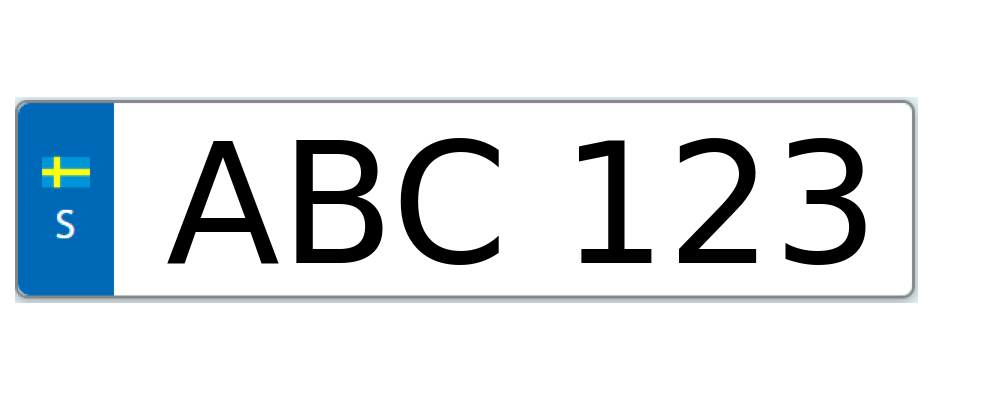
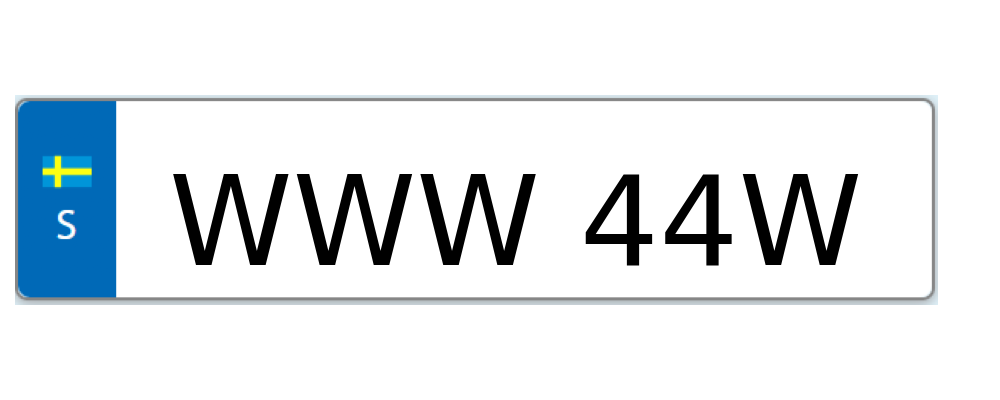
create images working

diff --git a/create_image.py b/create_image.py
@@ -1,7 +1,6 @@
 import matplotlib.pyplot as plt
 
-def create_images(reg_nr, save_path):
-    """Takes a first name, surname and a filename as arguments. Adds first name surname to the image and saves it as the given filename"""
+def create_image(reg_nr, save_path):
     # to do: check if includes the space and the rest is all alphanumerical
     # do this with try / except instead
     if len(reg_nr) == 7:
@@ -9,7 +8,7 @@ def create_images(reg_nr, save_path):
         ax = plt.gca()
         plt.axis('off')
         im = plt.imread("empty_sign.png")
-        plt.text(100, 110, reg_nr, fontsize=120)
+        plt.text(100, 110, reg_nr, fontsize=90)
 
         plt.imshow(im)
         plt.tight_layout()
@@ -37,4 +36,4 @@ def create_images(reg_nr, save_path):
     #     # plt.showw()
 
 if __name__ == "__main__":
-    create_images('ABC 123', 'test_plate.png')
+    create_image('AWW 44W', 'test_plate2.png')

diff --git a/create_multiple_images.py b/create_multiple_images.py
@@ -1,4 +1,20 @@
-from create_image import *
+from create_image import create_image
+from create_folder import create_folders 
+from generate_reg_no import generate_reg_nr
+from config import *
 
 
-def 
+def create_multiple_images(amount):
+    create_folders(FOLDER_PATH)
+    
+    for i in range(amount):
+        file_name = str(i + 1) + '.png'
+        current_plate_number = generate_reg_nr()
+        first_letter = current_plate_number[0]
+        full_path = FOLDER_PATH + first_letter + '\\' + file_name
+        create_image(current_plate_number, full_path)
+
+
+
+if __name__=='__main__':
+    create_multiple_images(5)

diff --git a/config.py b/config.py
@@ -1,1 +1,1 @@
-FOLDER_PATH = "put your folderpath here"
+FOLDER_PATH = "C:\\projekt\\MachineLearning\\create_folders\\"
